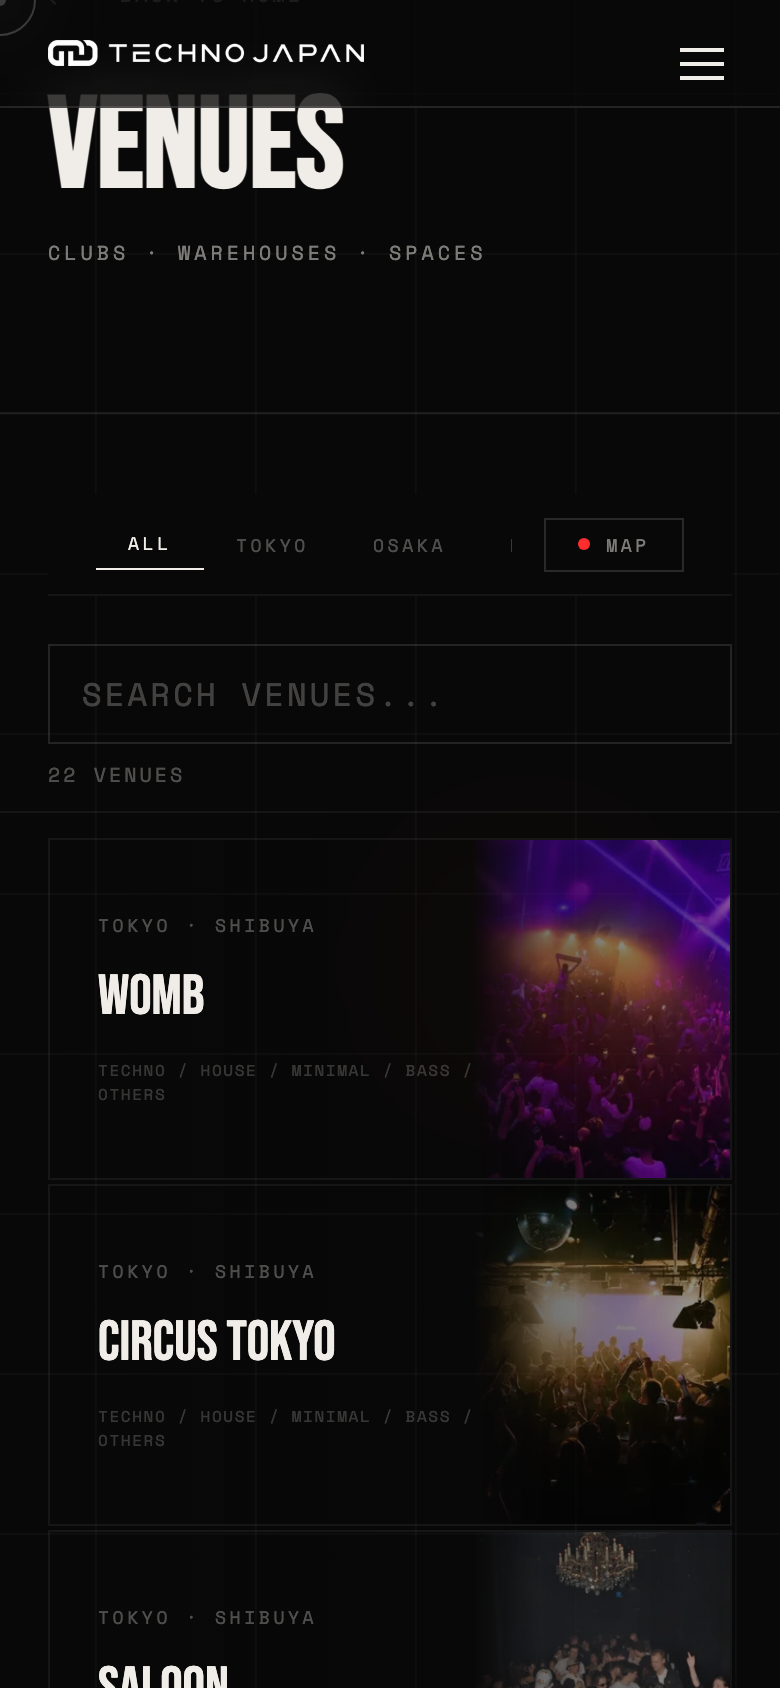
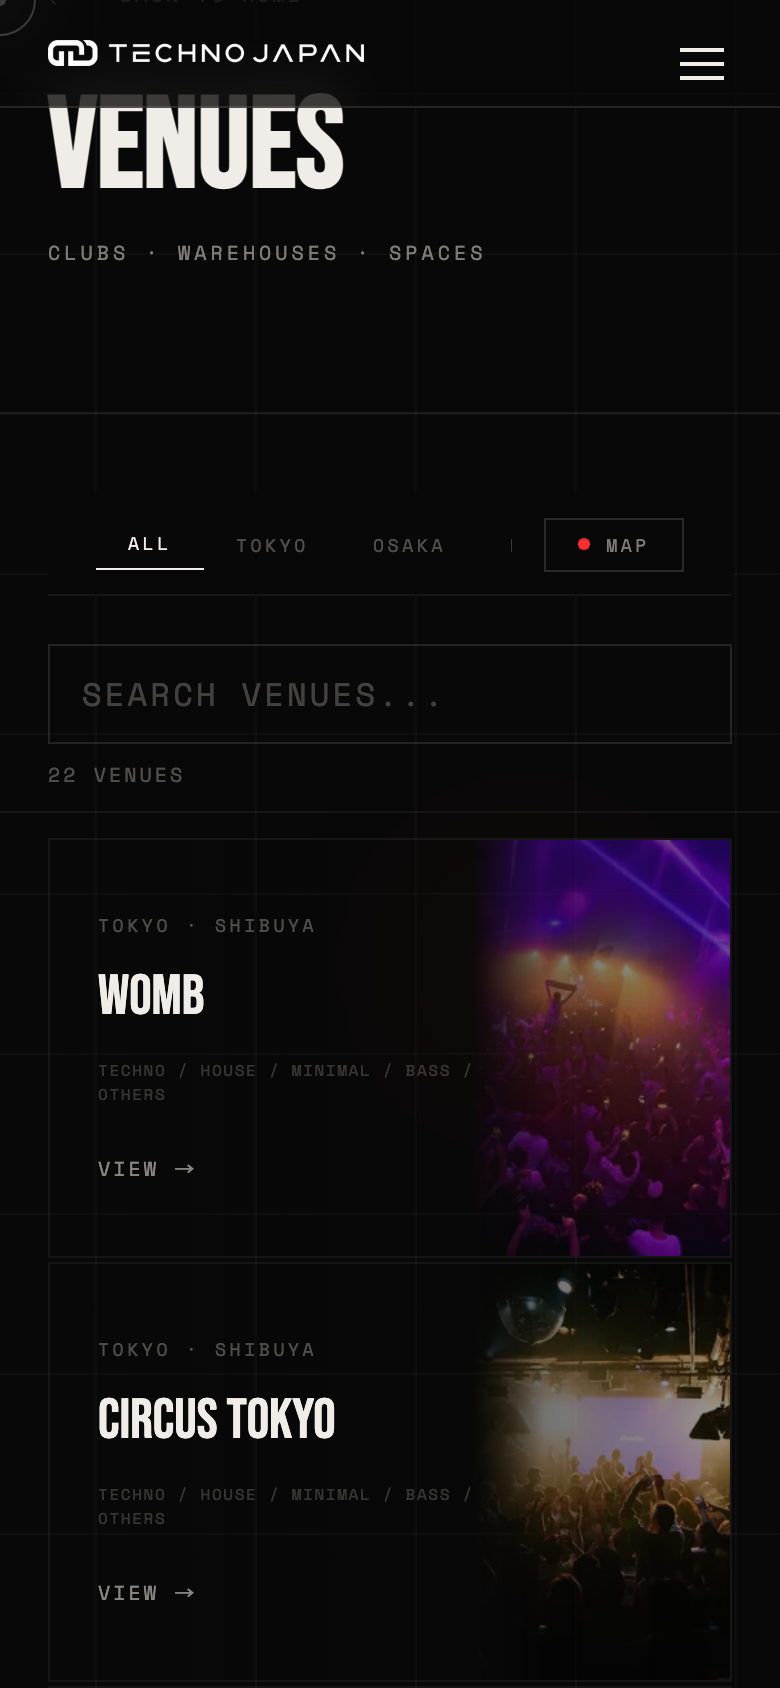
fix: keep venue view action clear on mobile

diff --git a/LP/en/venues.html b/LP/en/venues.html
@@ -276,6 +276,8 @@
   .venue-card { padding: 36px 24px; min-height: auto; }
   .venue-card-visual { width: 38%; }
   .venue-card.has-visual .venue-card-content { padding-right: 24%; }
+  /* 画像レイヤーと重ならないよう、スマホではカード本文の下に置く。 */
+  .venue-card-arrow { position: relative; right: auto; bottom: auto; margin-top: 24px; opacity: .55; }
   /* Full-width map on mobile — break out of parent padding */
   .city-map-wrap {
     margin: 0 -24px 32px;

diff --git a/LP/venues.html b/LP/venues.html
@@ -276,6 +276,8 @@
   .venue-card { padding: 36px 24px; min-height: auto; }
   .venue-card-visual { width: 38%; }
   .venue-card.has-visual .venue-card-content { padding-right: 24%; }
+  /* 画像レイヤーと重ならないよう、スマホではカード本文の下に置く。 */
+  .venue-card-arrow { position: relative; right: auto; bottom: auto; margin-top: 24px; opacity: .55; }
   /* Full-width map on mobile — break out of parent padding */
   .city-map-wrap {
     margin: 0 -24px 32px;
